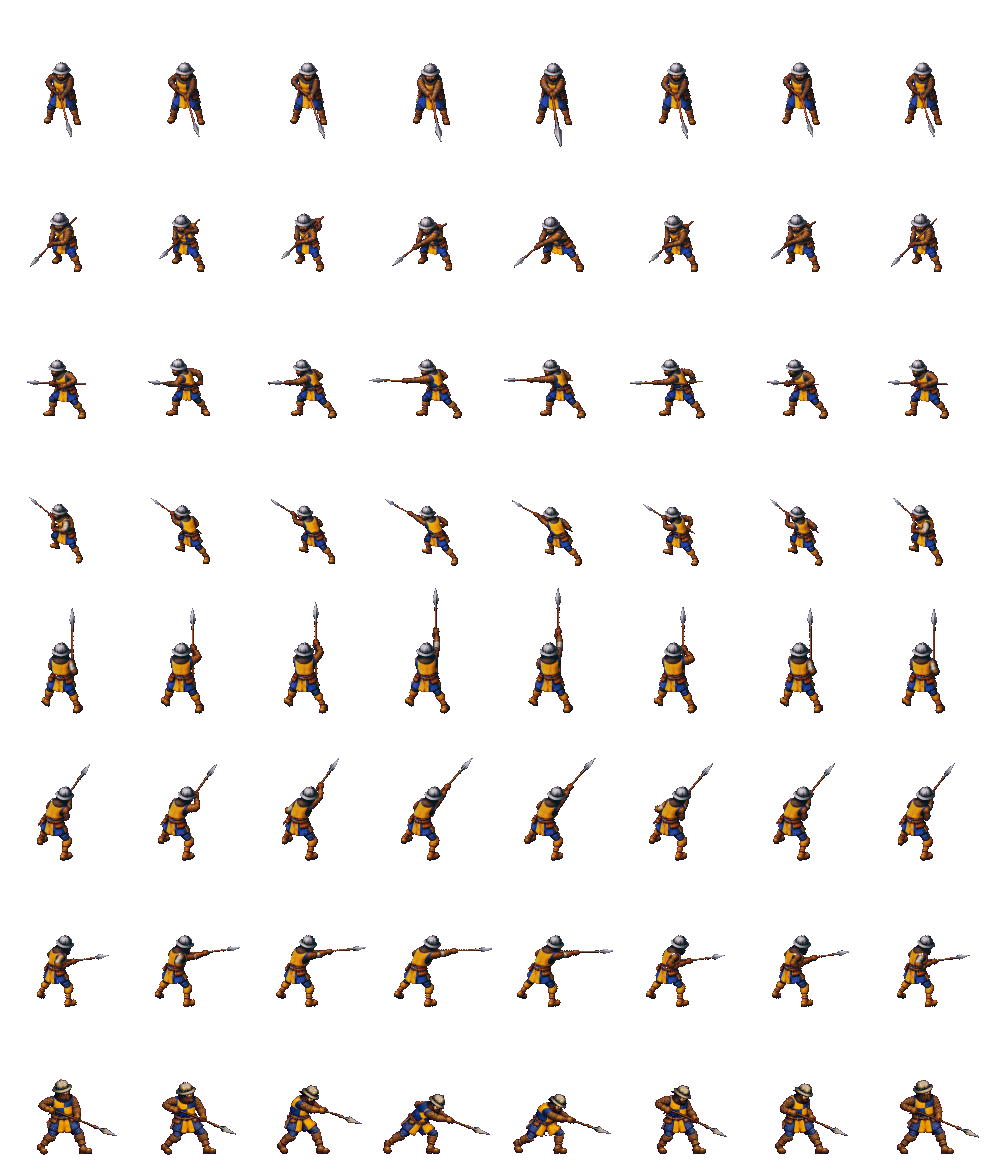
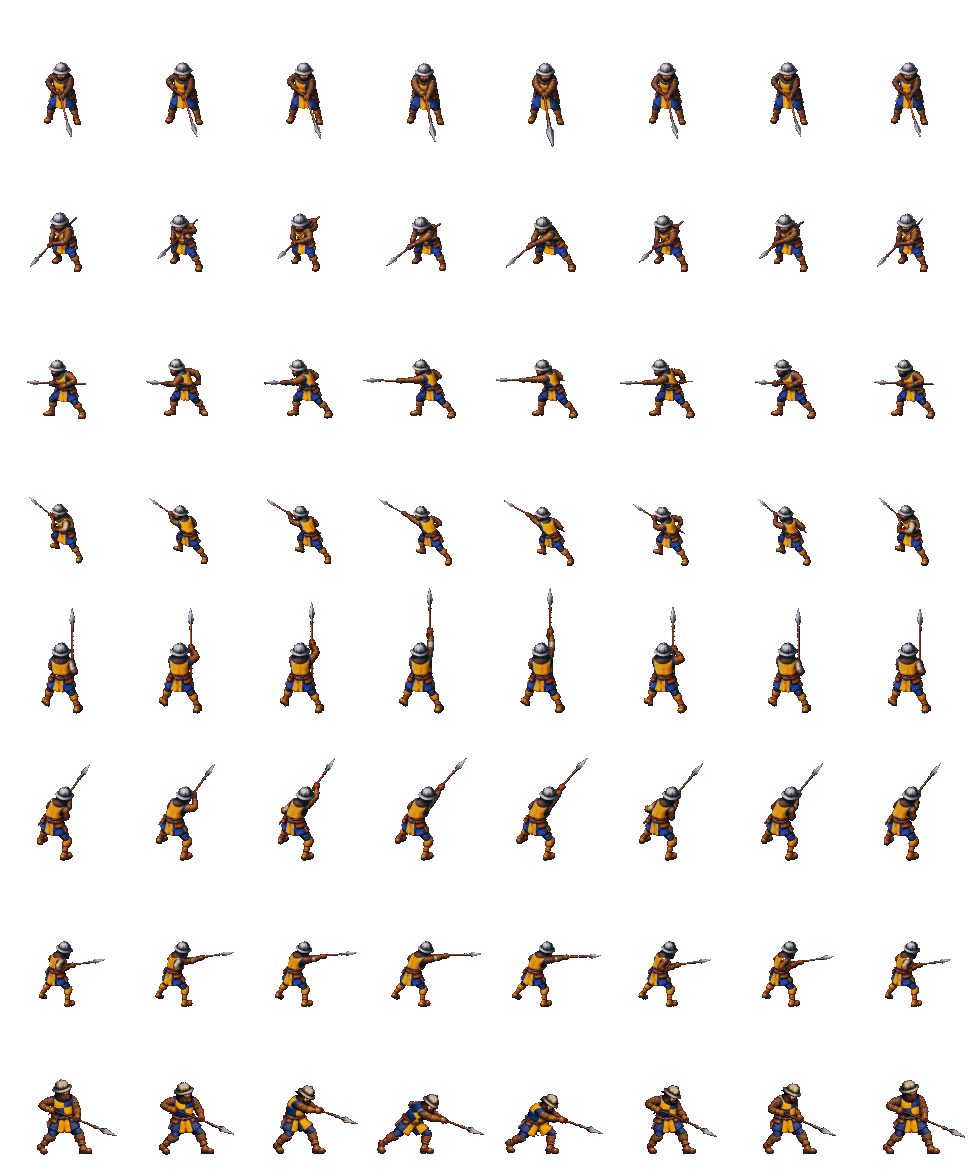
Lopen O van de speerman met de bouw van vel 1
Marcel: "Geef maar nieuwe prompts". Met dezelfde pas, maar de bouw en de grijze helm van het staande vel, zodat zijn
hoofd bij lopen niet meer groter is dan bij staan. Staan en de andere looprichtingen blijven pixel voor pixel hetzelfde.

diff --git a/beelden/beschrijving.js b/beelden/beschrijving.js
@@ -585,7 +585,7 @@
        "snelheid": 1.5,
        "stap": 0.6,
        "cel": [
-        94,
+        92,
         90
        ],
        "anker": [
@@ -599,7 +599,7 @@
        "fps": 10,
        "herhaal": false,
        "cel": [
-        123,
+        121,
         147
        ],
        "anker": [

diff --git a/ontwerp/beelden-van-de-generator.md b/ontwerp/beelden-van-de-generator.md
@@ -372,7 +372,11 @@ generator van 1,7 MB; op spelmaat is het verschil ruis) en lopen in het spel. Wa
   gezicht of de maliën smaller worden) in plaats van naar het grijs, en meten de aanval en het vallen aan hun eerste
   beeld (de klaarstand, de klap) hoe gebukt hij staat, tussen 80 en 100% van de staande lengte. Lopen W kwam daarna
   ook goed (de punt nu vooruit), en lopen NO ook, allebei net zo gedrongen als O: bij die drie is het hoofd bij lopen
-  iets groter dan bij staan en aanvallen.
+  iets groter dan bij staan en aanvallen. Daarna (Marcel: "Geef maar nieuwe prompts") met de bouw van vel 1: "redo 8:
+  keep the walk cycle, the legs, the direction and the spear of your last version of sheet 8 exactly, but draw him with
+  exactly the proportions of the attached sheet 1 (the 7th figure), not stockier: the same body height, the same head
+  and helmet size relative to his body, and a grey steel kettle hat, not brass or gold. Matte style like sheet 1 [...]".
+  Lopen O kwam zo goed; W en NO op dezelfde manier.
 - **Alle 25 vellen zijn er** (22 okt). Wat nog beter kan: eventueel 3 en 4 (lopen ZW en W:
   de punt naar achteren). De vallen vanaf 18 zijn glimmender en oranjer getekend (de wapenrok bijna zonder blauw);
   `kleurGelijk` trekt de kleur bij, de vorm niet. Bij N (vel 14), van achteren, speelt hetzelfde: dan de punt

diff --git a/ontwerp/werklijst.md b/ontwerp/werklijst.md
@@ -32,7 +32,7 @@ de pijplijn van vraag 180 (Q, f; niet in de cloud). **Bezig in sessie `lokaal-da
 **nieuwe weg** (Marcel, 21 okt: "Ok, dan zullen we moeten inventariseren welke gebouwen en poppetjes we nodig hebben. Dan
 kunnen we de andere generator deze 1 voor 1 laten maken. Jij moet dan zorgen dat ze passend worden in het spel"): de
 generator van zijn plaat maakt de bron, wij maken het passend; eerst de inventaris (`beelden-van-de-generator.md`). De
-speerman staat en loopt in het spel in acht richtingen (21 okt, de masterprompt); de aanval in alle acht richtingen en alle 25 vellen staan erin, en lopen O, W en NO opnieuw met bewegende benen (22 okt): af, `beelden-van-de-generator.md` (in
+speerman staat en loopt in het spel in acht richtingen (21 okt, de masterprompt); de aanval in alle acht richtingen en alle 25 vellen staan erin, en lopen O, W en NO opnieuw met bewegende benen (22 okt); **wacht op Marcel**: lopen W en NO met de bouw van vel 1 (O is binnen), `beelden-van-de-generator.md` (in
 het nieuwe gesprek, `beelden-van-de-generator.md`), en eventueel 3 en 4 opnieuw (de punt naar achteren).
 
 **Marcels acht punten van 20 okt** (R, vraag 182 tot 189: egaliseren met de schop, de maat van de huizen, dragers, een
